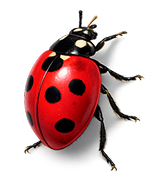
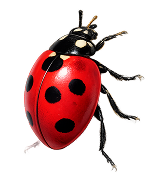
add decorative ladybug image to poster section for enhanced visual appeal

diff --git a/app/pages/index.vue b/app/pages/index.vue
@@ -144,15 +144,23 @@
           class="grid md:grid-cols-3 justify-center gap-6 items-center"
       >
 
-        <NuxtImg
-            alt="Poster"
-            v-bind:src="movie.poster"
-            sizes="sm:400px md:750px"
-            format="avif,webp"
-            placeholder
-            class="max-h-87.5 md:max-h-162.5 mx-auto object-contain rounded md:rounded-lg select-none pointer-events-none shadow md:shadow-lg shadow-neutral-200"
-            loading="lazy"
-        />
+        <div class="relative mx-auto">
+          <NuxtImg
+              alt="Poster"
+              v-bind:src="movie.poster"
+              sizes="sm:400px md:750px"
+              format="avif,webp"
+              placeholder
+              class="max-h-87.5 md:max-h-162.5 mx-auto object-contain rounded md:rounded-lg select-none pointer-events-none shadow md:shadow-lg shadow-neutral-200"
+              loading="lazy"
+          />
+          <NuxtImg
+              src="/ladybug.png"
+              alt="Ladybug"
+              class="w-8 md:w-12 absolute bottom-10 -left-4 md:-left-6 z-10"
+              loading="lazy"
+          />
+        </div>
 
         <div class="md:order-2 md:col-span-2 p-4 md:p-0">
           <!--          <h3 class="text-xl md:text-2xl font-semibold text-secondary">-->
